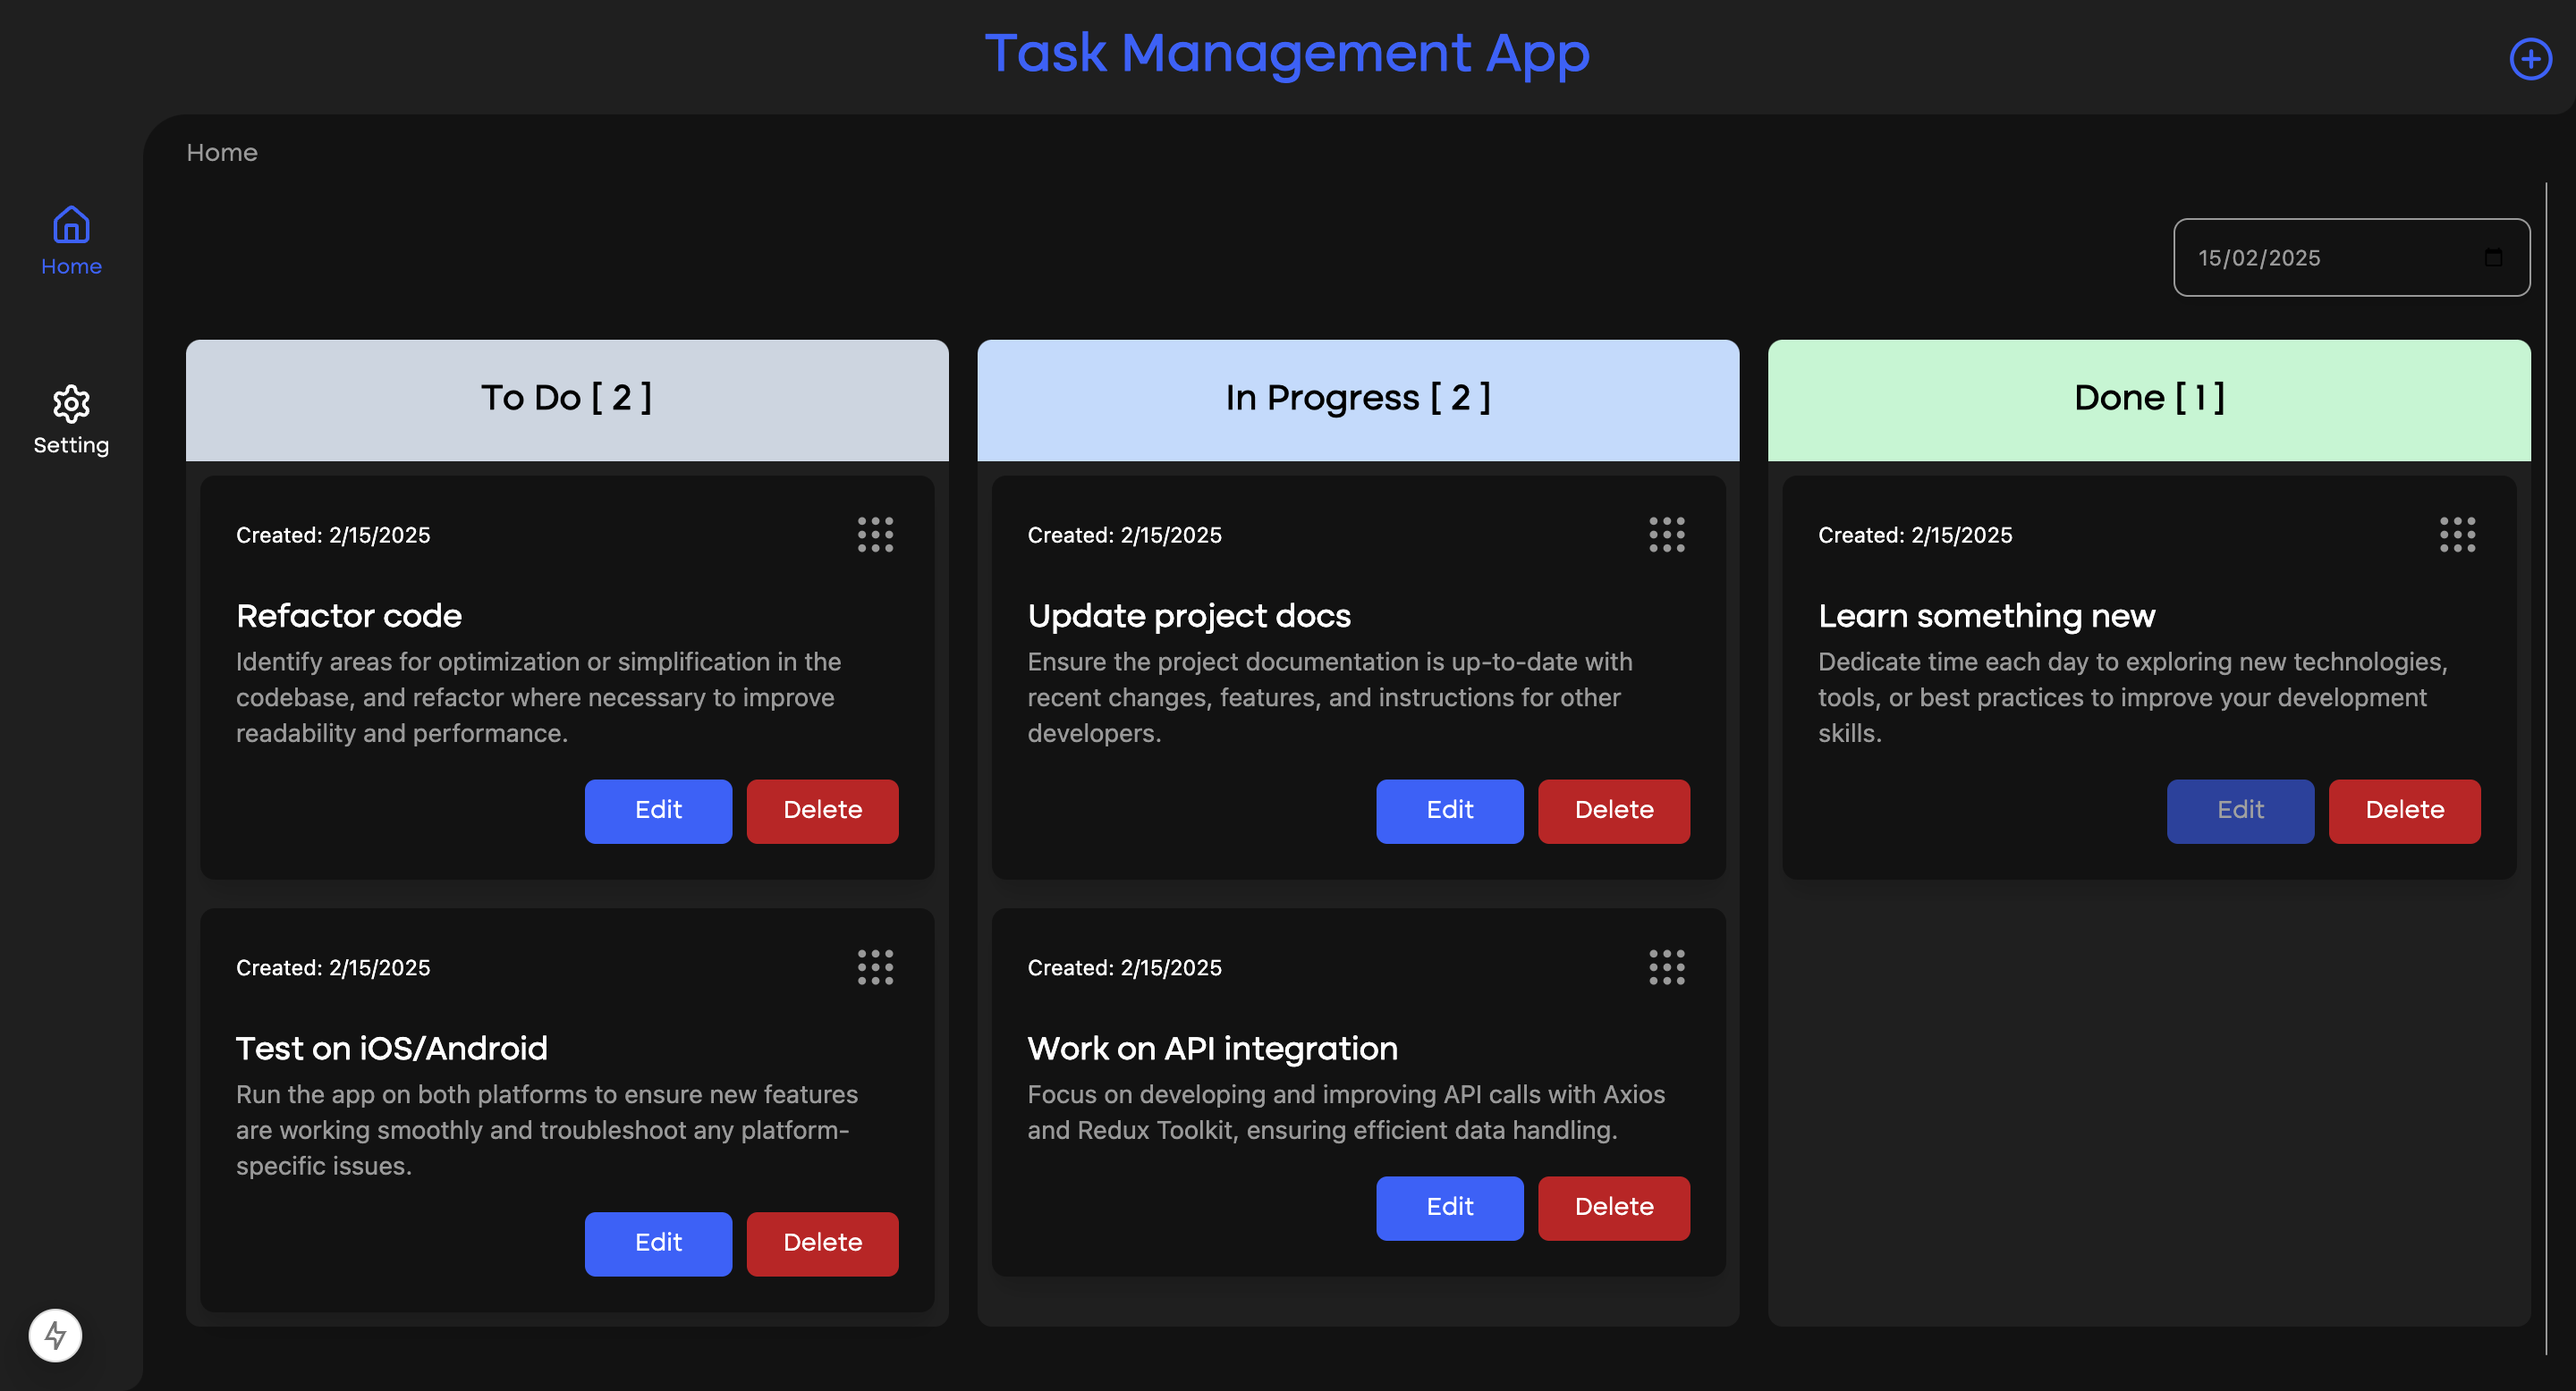
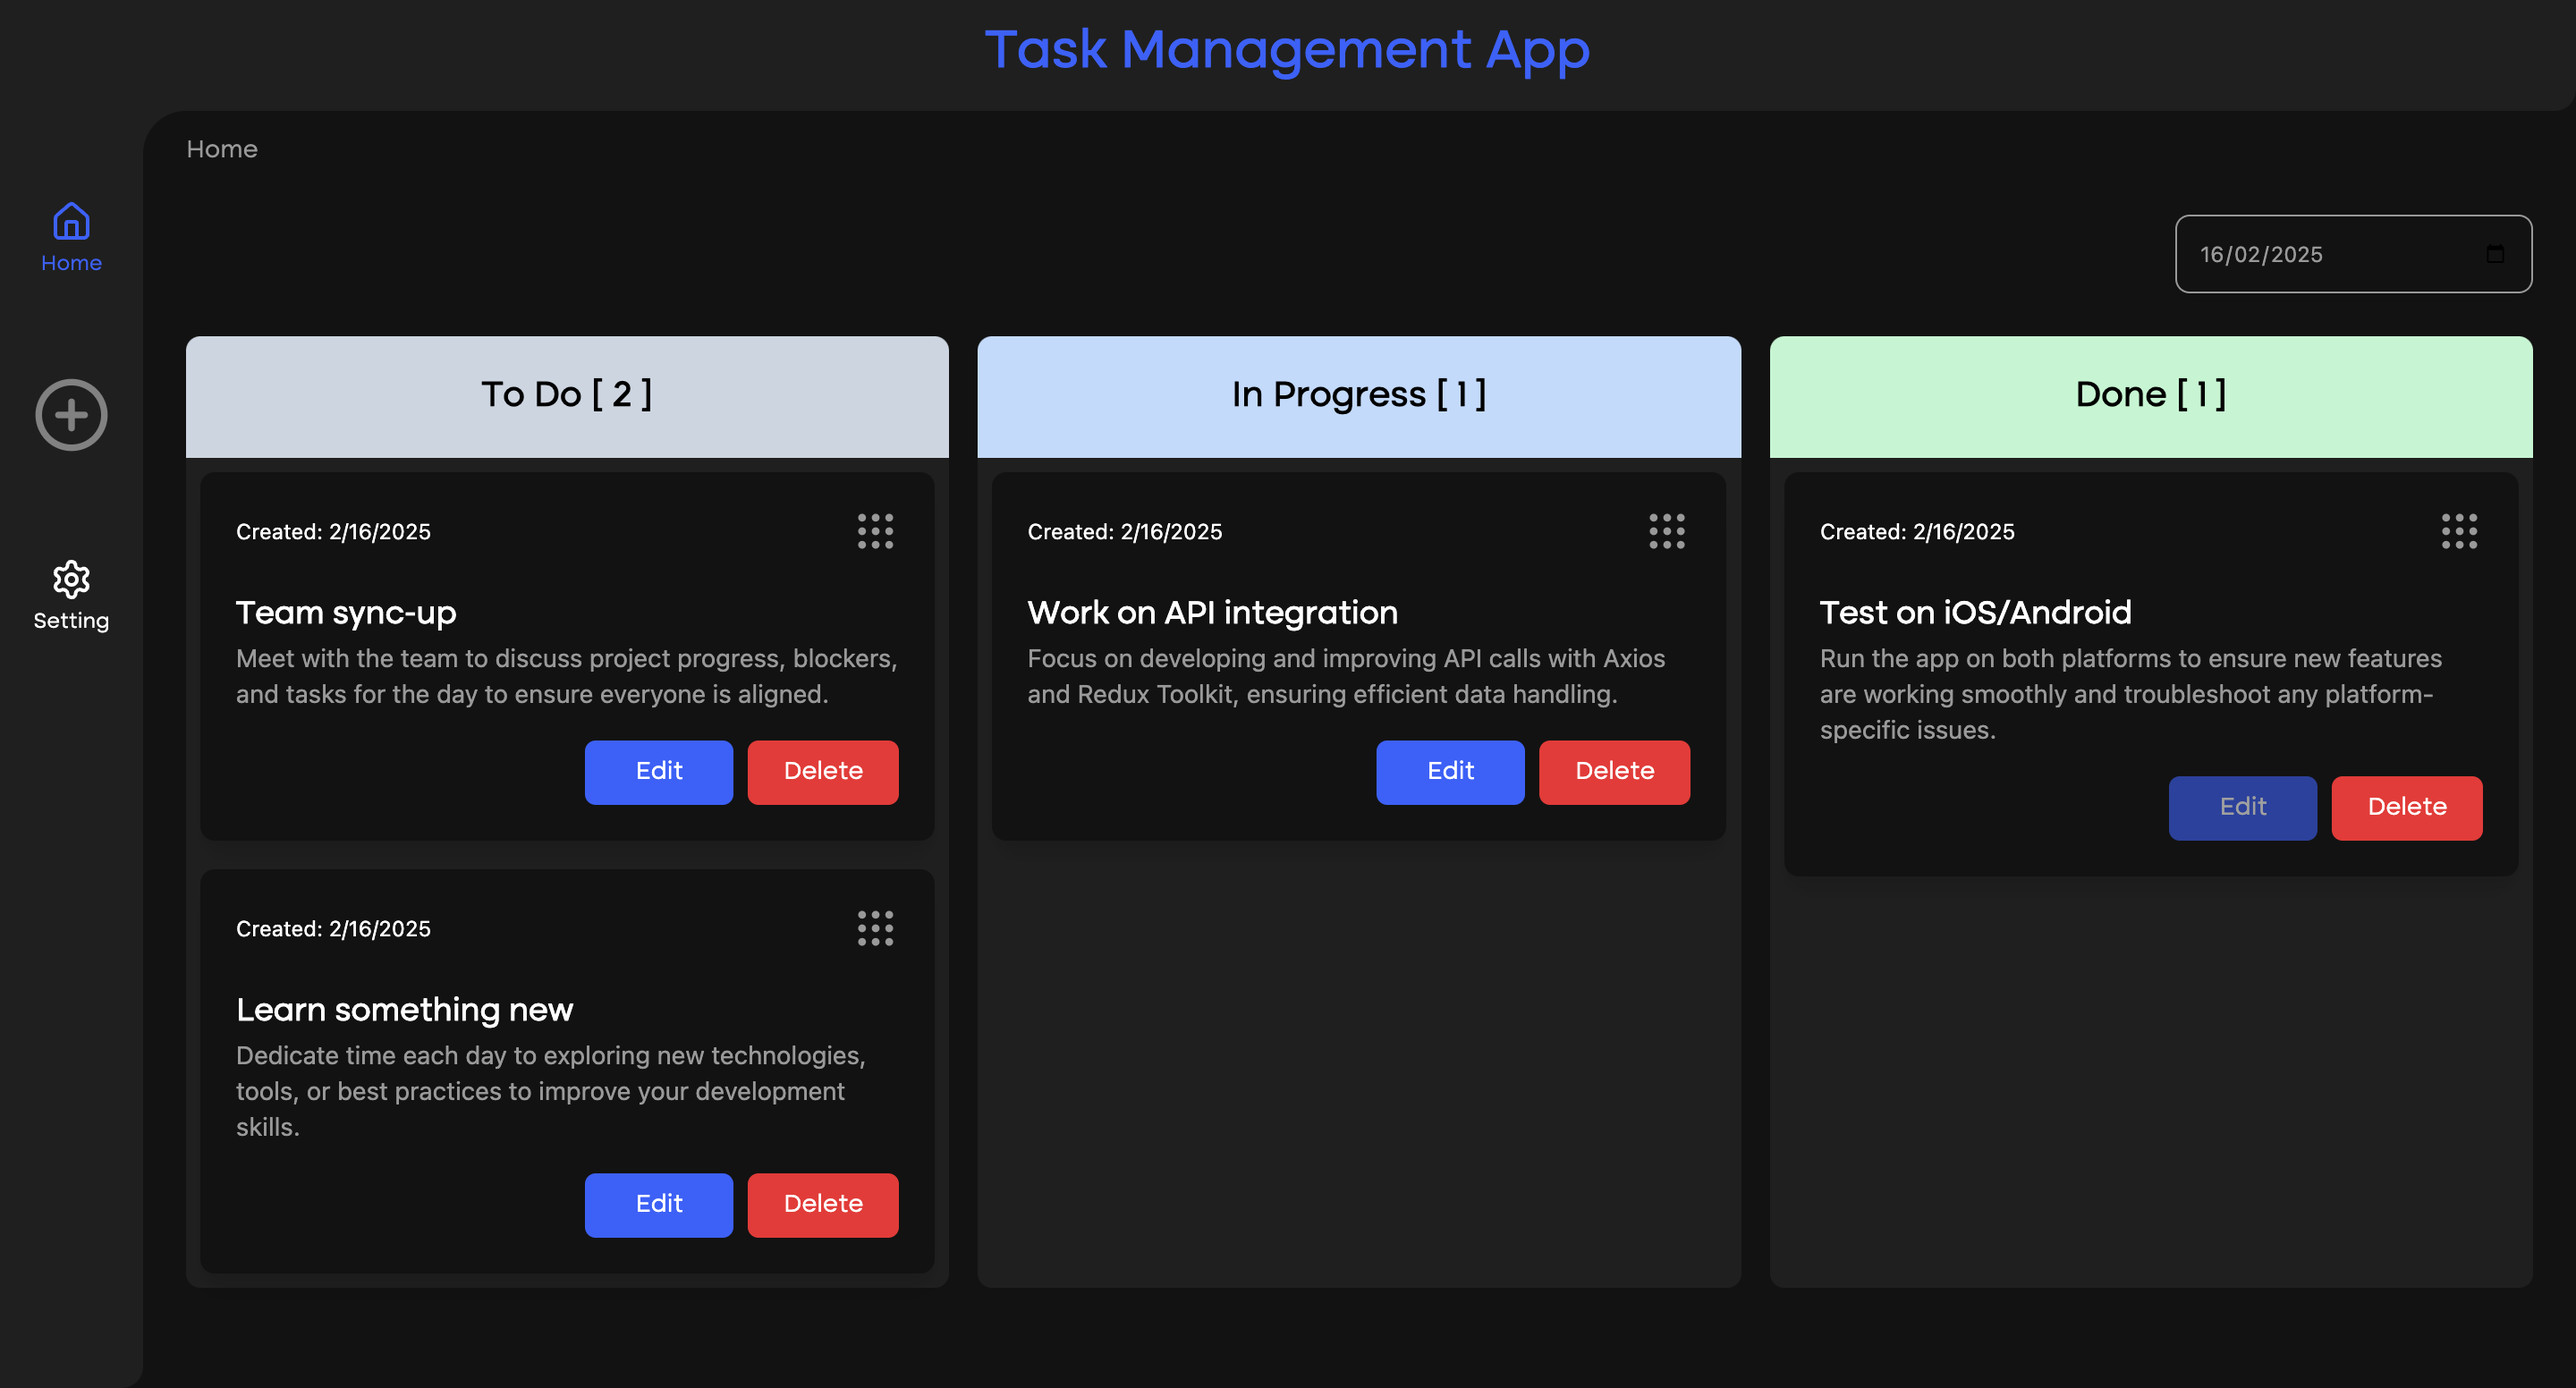
[ENHANCEMENT] change danger color code and refactor UI

diff --git a/src/components/organisms/container/index.tsx b/src/components/organisms/container/index.tsx
@@ -1,7 +1,7 @@
 "use client";
 
 import React, { useState } from "react";
-import { Home, LucideProps, Settings } from "lucide-react"; 
+import { Home, LucideProps, Settings,CirclePlus } from "lucide-react"; 
 import "./styles.css";
 import Link from "next/link";
 import { usePathname } from "next/navigation";
@@ -13,6 +13,7 @@ import AddTask from "../add_task";
 
 const NAV_ITEMS = [
   { path: "/", label: "Home", Icon: Home },
+  { path: "#", label: "", Icon: CirclePlus, showIcon: true }, 
   { path: "/setting", label: "Setting", Icon: Settings },
 ];
 
@@ -20,10 +21,14 @@ const NavigationLink = ({
   path,
   label,
   Icon,
+  showIcon,
+  handleClickAdd,
 }: {
   path: string;
   label: string;
   Icon: React.ForwardRefExoticComponent<Omit<LucideProps, "ref"> & React.RefAttributes<SVGSVGElement>>;
+  showIcon?: boolean;
+  handleClickAdd?: () => void;
 }) => {
   const pathname = usePathname();
 
@@ -34,6 +39,7 @@ const NavigationLink = ({
   const isActive = pathname === path || pathname.startsWith(path + "/");
 
   const handleClick = (e: React.MouseEvent<HTMLAnchorElement>) => {
+    
     const { clientX, clientY, currentTarget } = e;
     const rect = currentTarget.getBoundingClientRect();
     const x = clientX - rect.left;
@@ -45,7 +51,11 @@ const NavigationLink = ({
     // Remove ripple effect after animation ends
     setTimeout(() => {
       setRipples((prev) => prev.filter((r) => r.id !== newRipple.id));
+    
     }, 600);
+    if (handleClickAdd) {
+      handleClickAdd();
+    }
   };
 
   return (
@@ -53,10 +63,11 @@ const NavigationLink = ({
       href={path}
       className="relative flex flex-col items-center justify-center overflow-hidden w-full p-2 h-[4rem] max-sm:rounded-t-xl rounded-xl"
       onClick={handleClick}
+
     >
       <Icon
-        size={24}
-        className={`${isActive ? "text-activeColor" : "text-textColor"}`}
+        size={showIcon ? 50 : 24}
+        className={`${ showIcon ? " text-textGrayColor opacity-80 cursor-pointer hover:text-activeColor" : isActive ? "text-activeColor" : "text-textColor"}`}
       />
       <span
         className={`text-xs font-walone_regular pt-1 ${isActive ? "text-activeColor" : "text-textColor"
@@ -84,6 +95,7 @@ const NavigationLink = ({
           />
         ))}
       </div>
+   
     </Link>
   );
 };
@@ -97,10 +109,8 @@ export const Container = ({ children }: { children: React.ReactNode }) => {
       <div className="w-full bg-backgroundColor h-[4rem] flex">
 
         <div className="w-full bg-popupBackgroundColor max-[639px]:rounded-b-xl rounded-br-xl h-[4rem] items-center flex justify-center">
-          <h1 className="sm:text-3xl text-xl font-walone_bold text-center text-activeColor">Task Management App</h1>
+          <h1 className="sm:text-3xl text-2xl font-walone_bold text-center text-activeColor">Task Management App</h1>
         </div>
-        <Icon name={IconState.CirclePlus} size={26} style="text-activeColor absolute top-5 right-3 cursor-pointer hover:text-textGrayColor" onClick={() => setShowPopup(!showPopup)} />
-
       </div>
 
       <div className="flex max-[639px]:flex-col w-full bg-backgroundColor">
@@ -108,12 +118,14 @@ export const Container = ({ children }: { children: React.ReactNode }) => {
         <div className=" max-[639px]:hidden w-[5rem] h-content bg-popupBackgroundColor rounded-br-xl py-5">
           <div className="  py-5 overflow-auto second-h-content rounded-full flex justify-center w-[5rem]">
             <nav className=" space-y-9 sidebar flex flex-col items-center ">
-              {NAV_ITEMS.map(({ path, label, Icon }) => (
+              {NAV_ITEMS.map(({ path, label, Icon,showIcon }) => (
                 <NavigationLink
                   key={path}
                   path={path}
                   label={label}
                   Icon={Icon}
+                  showIcon={showIcon}
+                  handleClickAdd={showIcon ? () => setShowPopup(!showPopup) : undefined}
                 />
               ))}
             </nav>
@@ -134,12 +146,14 @@ export const Container = ({ children }: { children: React.ReactNode }) => {
           {/* Bottom Navigation (Mobile) */}
           <div className="w-full max-[639px]:flex hidden  max-[639px]:fixed relative bottom-0 bg-backgroundColor h-[4rem] items-center">
             <div className=" w-full bg-popupBackgroundColor rounded-t-xl h-[4rem] flex justify-around items-center">
-              {NAV_ITEMS.map(({ path, label, Icon }) => (
+              {NAV_ITEMS.map(({ path, label, Icon,showIcon }) => (
                 <NavigationLink
                   key={path}
                   path={path}
                   label={label}
                   Icon={Icon}
+                  showIcon={showIcon}
+                  handleClickAdd={showIcon ? () => setShowPopup(!showPopup) : undefined}
                 />
               ))}
             </div>

diff --git a/src/components/organisms/add_task/index.tsx b/src/components/organisms/add_task/index.tsx
@@ -32,7 +32,6 @@ const AddTask = ({ showPopup, setShowPopup, task }: Props) => {
 
         if (task) {
             dispatch(updateTask({ ...task, title, description }));
-            handleClose();
         } else {
             dispatch(addTask({
                 title,
@@ -43,6 +42,7 @@ const AddTask = ({ showPopup, setShowPopup, task }: Props) => {
         }
         setTitle('');
         setDescription('');
+        handleClose();
     };
 
     const handleTitleChange = (e: React.ChangeEvent<HTMLInputElement>) => {

diff --git a/src/app/globals.css b/src/app/globals.css
@@ -27,7 +27,7 @@
   --active-color: "#ffac30";
   --success-color: "#16a34a";
   --warnning-color: "#8000C8";
-  --danger-color: "#C8001A";
+  --danger-color: "#F5222D";
 }
 
 [data-theme="dark"] {
@@ -38,7 +38,7 @@
   --active-color: "#ffac30";
   --success-color: "#16a34a";
   --warnning-color: "#8000C8";
-  --danger-color: "#C8001A";
+  --danger-color: "#F5222D";
 }
 
 body {

diff --git a/src/constants/theme/Colors.ts b/src/constants/theme/Colors.ts
@@ -1,7 +1,7 @@
 const commonColor = {
   success: '#16a34a',
   warnning: '#8000C8',
-  danger: '#C8001A',
+  danger: '#F5222D',
 };
 
 const light = {
